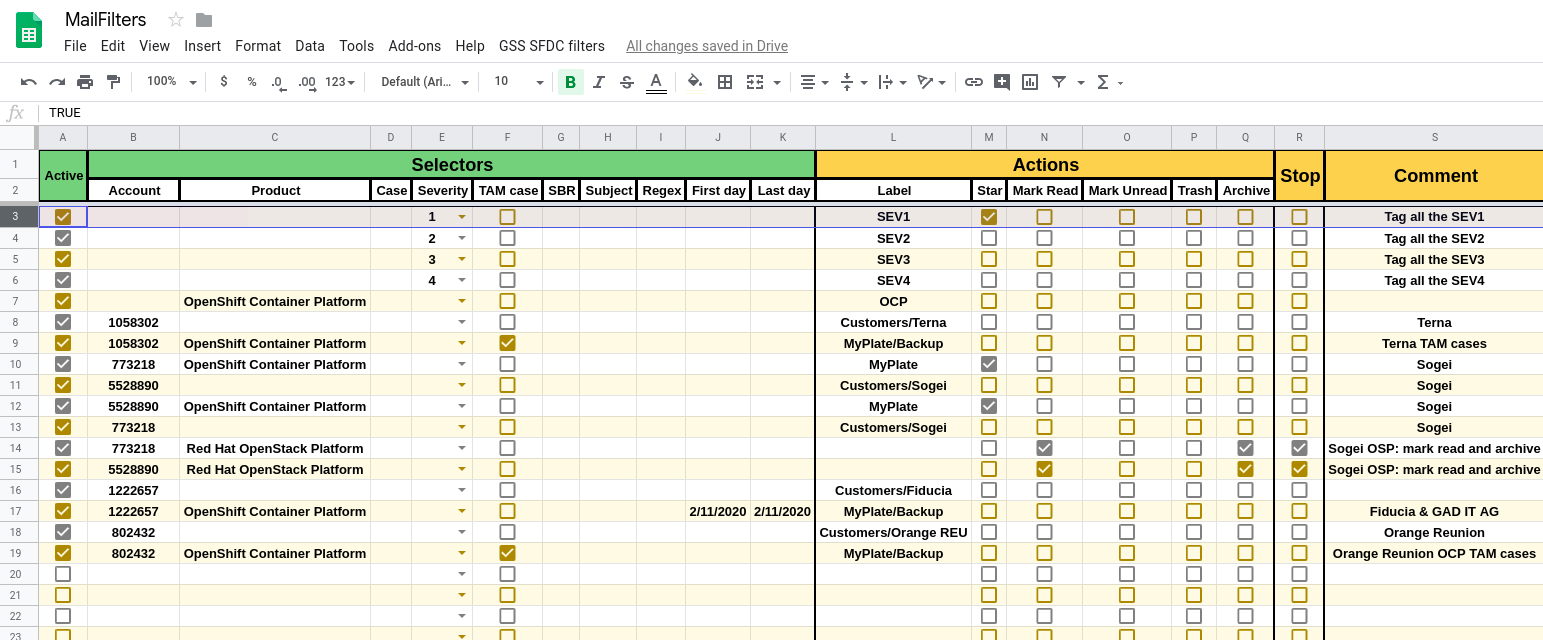
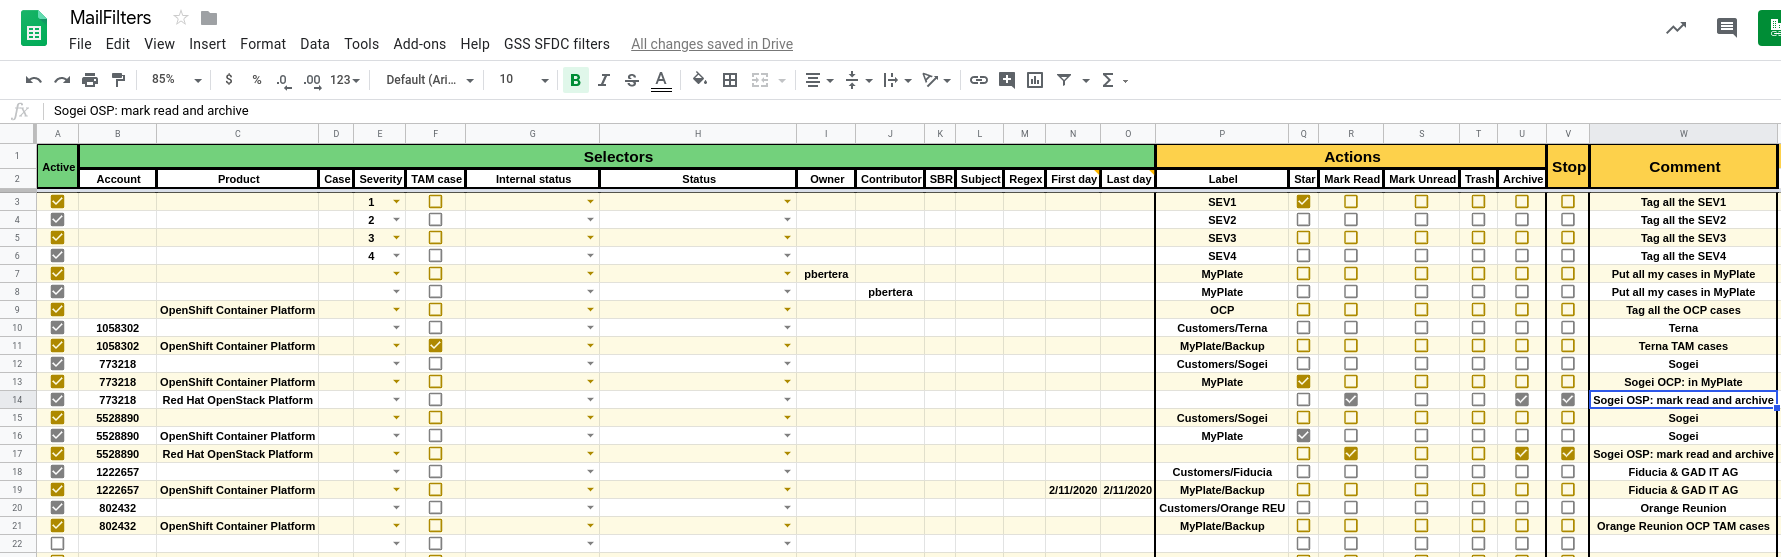
ADD: added Internal status, Status, Owner and Contributor selectors

diff --git a/MailFilter.js b/MailFilter.js
@@ -52,7 +52,6 @@ function onOpen() {
   var menu = [
     {name: "Help",functionName: "help"},
     {name: "Run", functionName: "workOn"},
-    null,
     {name: "Install Trigger", functionName: "install"},
     {name: "Remove Trigger", functionName: "uninstall"}
   ];  
@@ -78,22 +77,26 @@ function readFilters() {
     'caseNumber': 3,
     'caseSeverity': 4,
     'TAMCase': 5,
-    'sbr': 6,
-    'subject': 7,
-    'regex': 8,
-    'firstDay': 9,
-    'lastDay': 10
+    'internalStatus': 6,
+    'status': 7,
+    'owner': 8,
+    'contributor': 9,
+    'sbr': 10,
+    'subject': 11,
+    'regex': 12,
+    'firstDay': 13,
+    'lastDay': 14
   };
 
 // index representing the action column (column A is 0)  
   var actionColumns = {
-    'label': 11,
-    'star': 12,
-    'markRead': 13,
-    'markUnread': 14,
-    'trash': 15,
-    'archive': 16,
-    'stopProcessing': 17
+    'label': 15,
+    'star': 16,
+    'markRead': 17,
+    'markUnread': 18,
+    'trash': 19,
+    'archive': 20,
+    'stopProcessing': 21
   };
 
   var ss = SpreadsheetApp.getActiveSpreadsheet();
@@ -126,6 +129,18 @@ function readFilters() {
       }
       if(values[rowNum][filterColumns.TAMCase]){
         filter.selectors.TAMCase = true;
+      }
+      if(values[rowNum][filterColumns.internalStatus] !==  ""){
+        filter.selectors.internalStatus = values[rowNum][filterColumns.internalStatus];
+      }
+      if(values[rowNum][filterColumns.status] !==  ""){
+        filter.selectors.status = values[rowNum][filterColumns.status];
+      }
+      if(values[rowNum][filterColumns.owner] !==  ""){
+        filter.selectors.owner = values[rowNum][filterColumns.owner];
+      }
+      if(values[rowNum][filterColumns.contributor] !==  ""){
+        filter.selectors.contributor = values[rowNum][filterColumns.contributor];
       }
       if(values[rowNum][filterColumns.sbr] !==  ""){
         filter.selectors.sbr = values[rowNum][filterColumns.sbr];
@@ -240,6 +255,18 @@ function workOn() {
       }
       if (filter.selectors.TAMCase) { // SFDC TAM case
         if (!isMatched('X-SFDC-X-TAM-Case: true')) return false;
+      }
+      if (filter.selectors.internalStatus) { // SFDC Internal status
+        if (!isMatched('X-SFDC-X-Internal-Status: ' + filter.selectors.internalStatus)) return false;
+      }
+      if (filter.selectors.status) { // SFDC Status
+        if (!isMatched('X-SFDC-X-Status: ' + filter.selectors.status)) return false;
+      }
+      if (filter.selectors.owner) { // SFDC owner
+        if (!isMatched('X-SFDC-X-Owner: .*' + filter.selectors.owner + ".*")) return false;
+      }
+      if (filter.selectors.contributor) { // SFDC contributor
+        if (!isMatched('X-SFDC-X-Contributors: .*' + filter.selectors.contributor + ".*")) return false;
       }
       if (filter.selectors.sbr) { // SFDC SBR group
         if (!isMatched('X-SFDC-X-SBR-Group: ' + filter.selectors.sbr)) return false;

diff --git a/README.md b/README.md
@@ -19,15 +19,21 @@ In case an email matches the filter selector the filter actions are applied, if 
 
 ### Selectors
 
-- **Product:** checks the email header `X-SFDC-X-Product`
-- **Case:** checks the email header `X-SFDC-X-Case-Number`
-- **Severity:** checks the email header `X-SFDC-X-Severity`
-- **TAM Case:** checks the email header `X-SFDC-X-TAM-Case`
-- **SBR:** checks the email header `X-SFDC-X-SBR-Group`
-- **Subject:** checks the email subject
-- **Regex:** checks the email against a regular expression
-- **First Day:** enable the filter starting on the day defined here
-- **Last Day:** enable the filter not after the day defined here
+| Selector Name | Match if ... |
+|:-------------:|:-------------------:|
+| Product       | ... the email header `X-SFDC-X-Product` is the same of the defined value |
+| Case          | ... the email header `X-SFDC-X-Case-Number` is the same of the defined value |
+| Severity      | ... the email header `X-SFDC-X-Severity` contains the defined value |
+| TAM Case      | ... the email header `X-SFDC-X-TAM-Case` is `true` |
+| Internal status | ... the email header `X-SFDC-X-Internal-Status` is the same of the defined value |
+| Status        | ... the email header `X-SFDC-X-Status` is the same of the defined value |
+| Owner         | ... the email header `X-SFDC-Owner` contains the defined value |
+| Contributor   | ... the email header `X-SFDC-Contributor` contains the defined value |
+| SBR           | ... the email header `X-SFDC-X-SBR-Group` is the same of the defined value |
+| Subject       | ... the email subject contains the defined value |
+| Regex         | ... the email matches with the defined regex |
+| First day     | ... the filter is evaluated during or after the defined date (hint: double click on the cell to have a date picker) |
+| Last day      | ... the filter is evaluated during or before the defined date (hint: double click on the cell to have a date picker) |
 
 **NOTE:** First and Last day are compared against the script execution time, not the email delivery time
 
